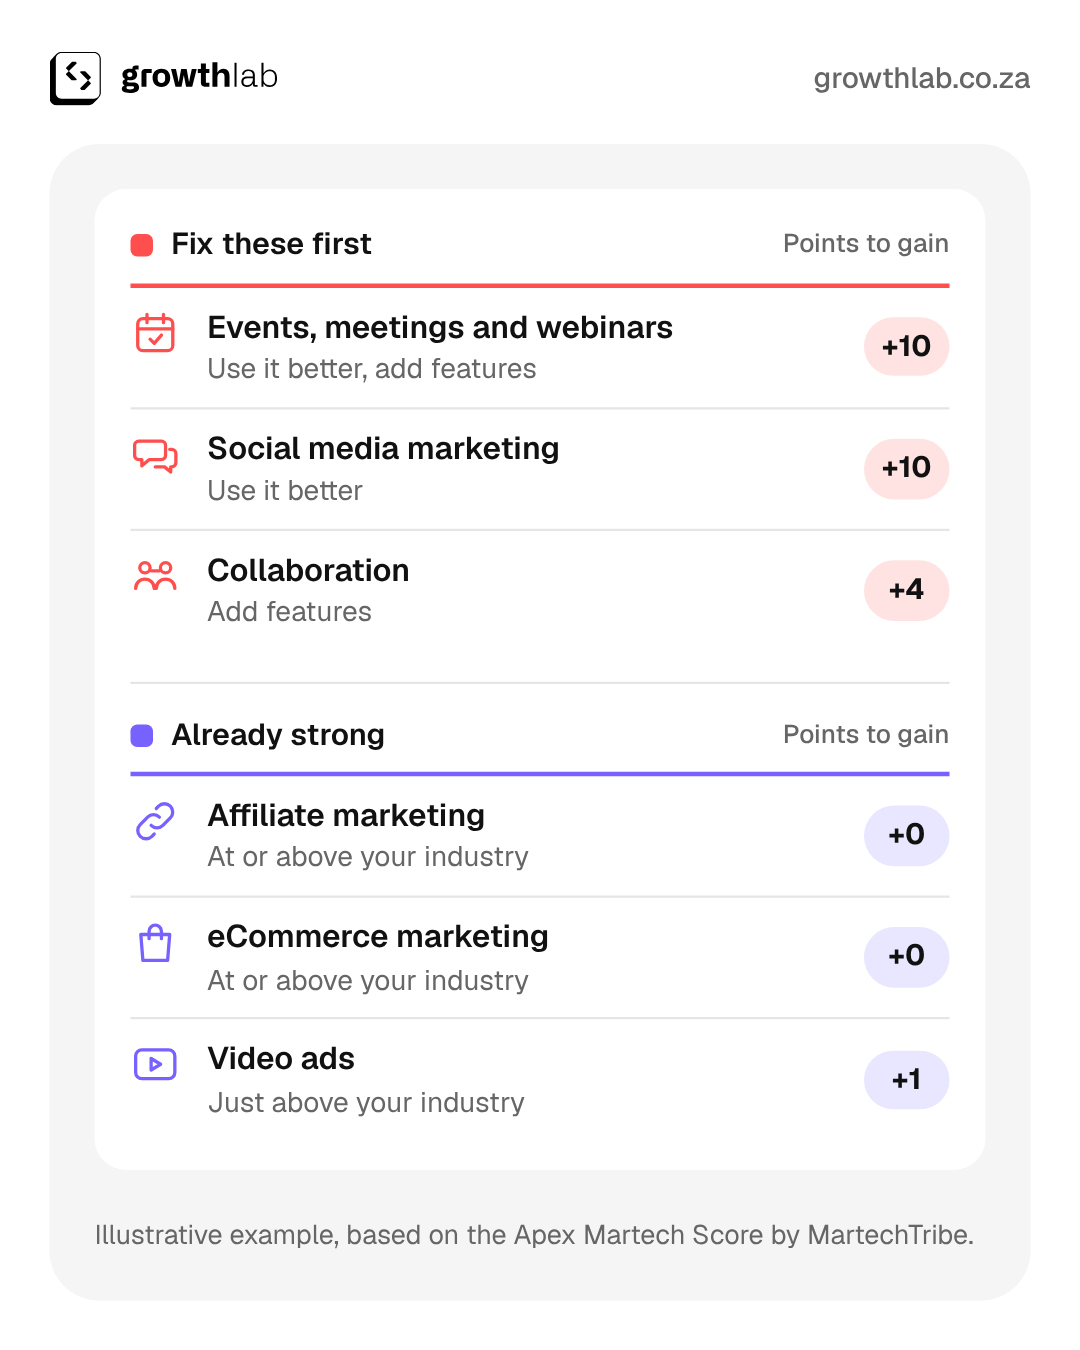
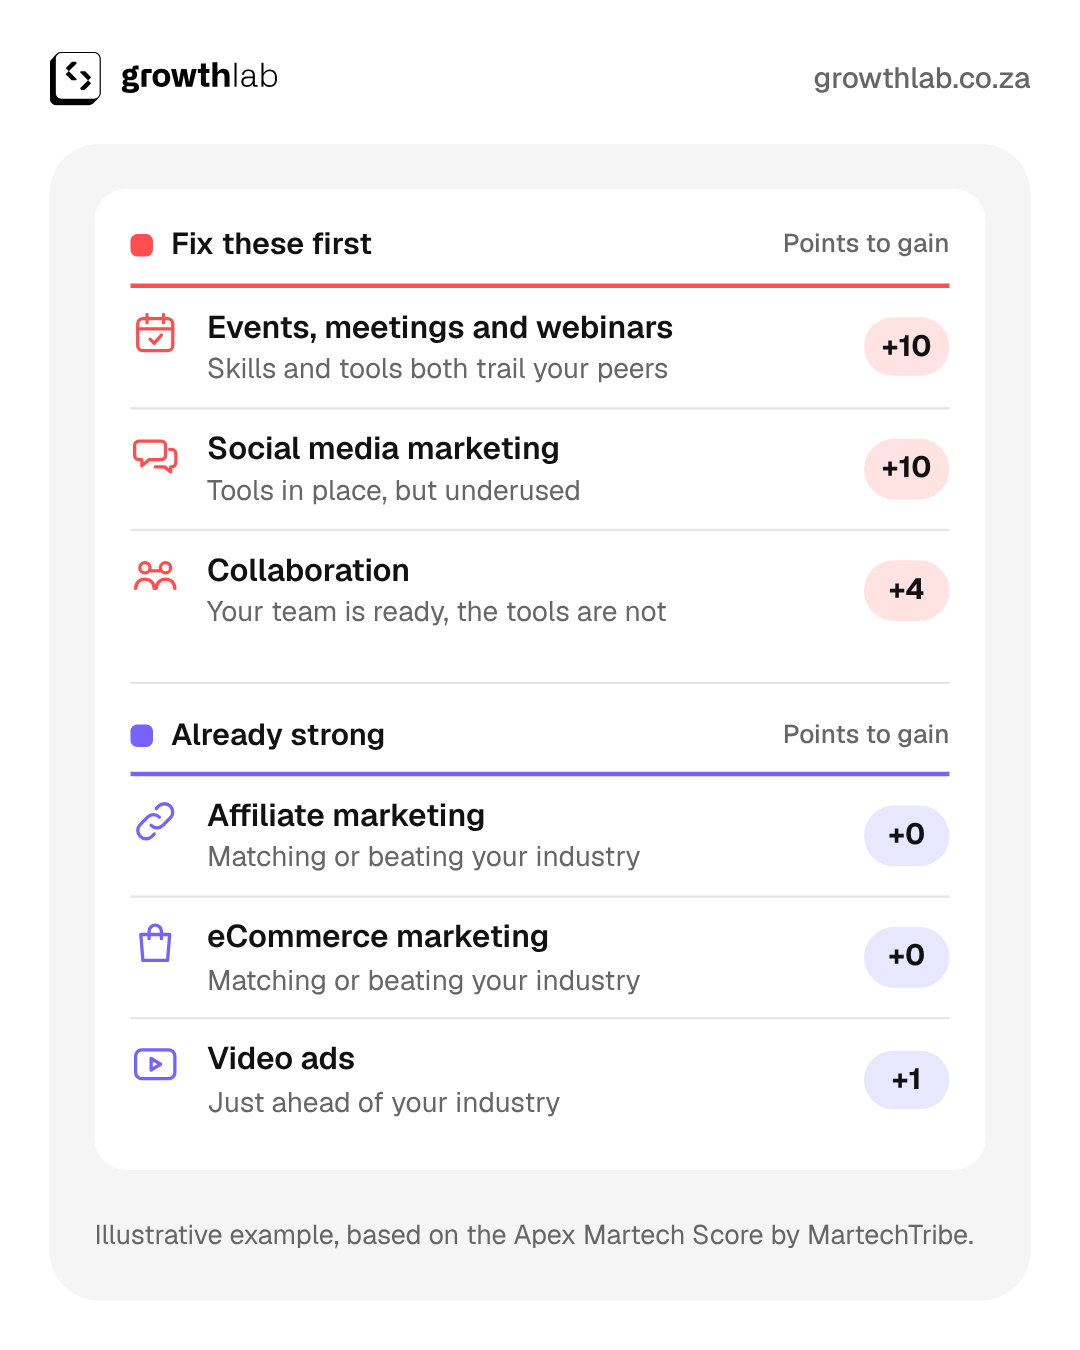
Growth Lab 2.12: score notes that read on their own
Replace "Use it better" and "Add features" with plain notes per area
(for example "Tools in place, but underused") and drop the key under the
lists, which readers missed. WhatsApp image 5 re-rendered; 445 checks
passing.

Claude-Session: https://claude.ai/code/session_01CPXKwt4JpQS2fb2UhF6eze

diff --git a/growth-lab/site/index.html b/growth-lab/site/index.html
@@ -281,21 +281,20 @@
                     <div class="score-col score-fix">
                       <h4><span>Fix these first</span><small>Points to gain</small></h4>
                       <ul role="list">
-                      <li><svg class="s-icon" aria-hidden="true" focusable="false"><use href="#i-calendar"/></svg><span class="s-name">Events, meetings and webinars</span><span class="s-how">Use it better, add features</span><span class="s-pts">+10</span></li>
-                      <li><svg class="s-icon" aria-hidden="true" focusable="false"><use href="#i-chat"/></svg><span class="s-name">Social media marketing</span><span class="s-how">Use it better</span><span class="s-pts">+10</span></li>
-                      <li><svg class="s-icon" aria-hidden="true" focusable="false"><use href="#i-team"/></svg><span class="s-name">Collaboration</span><span class="s-how">Add features</span><span class="s-pts">+4</span></li>
+                      <li><svg class="s-icon" aria-hidden="true" focusable="false"><use href="#i-calendar"/></svg><span class="s-name">Events, meetings and webinars</span><span class="s-how">Skills and tools both trail your peers</span><span class="s-pts">+10</span></li>
+                      <li><svg class="s-icon" aria-hidden="true" focusable="false"><use href="#i-chat"/></svg><span class="s-name">Social media marketing</span><span class="s-how">Tools in place, but underused</span><span class="s-pts">+10</span></li>
+                      <li><svg class="s-icon" aria-hidden="true" focusable="false"><use href="#i-team"/></svg><span class="s-name">Collaboration</span><span class="s-how">Your team is ready, the tools are not</span><span class="s-pts">+4</span></li>
                       </ul>
                     </div>
                     <div class="score-col score-strong">
                       <h4><span>Already strong</span><small>Points to gain</small></h4>
                       <ul role="list">
-                      <li><svg class="s-icon" aria-hidden="true" focusable="false"><use href="#i-link"/></svg><span class="s-name">Affiliate marketing</span><span class="s-how">At or above your industry</span><span class="s-pts">+0</span></li>
-                      <li><svg class="s-icon" aria-hidden="true" focusable="false"><use href="#i-bag"/></svg><span class="s-name">eCommerce marketing</span><span class="s-how">At or above your industry</span><span class="s-pts">+0</span></li>
-                      <li><svg class="s-icon" aria-hidden="true" focusable="false"><use href="#i-play"/></svg><span class="s-name">Video ads</span><span class="s-how">Just above your industry</span><span class="s-pts">+1</span></li>
+                      <li><svg class="s-icon" aria-hidden="true" focusable="false"><use href="#i-link"/></svg><span class="s-name">Affiliate marketing</span><span class="s-how">Matching or beating your industry</span><span class="s-pts">+0</span></li>
+                      <li><svg class="s-icon" aria-hidden="true" focusable="false"><use href="#i-bag"/></svg><span class="s-name">eCommerce marketing</span><span class="s-how">Matching or beating your industry</span><span class="s-pts">+0</span></li>
+                      <li><svg class="s-icon" aria-hidden="true" focusable="false"><use href="#i-play"/></svg><span class="s-name">Video ads</span><span class="s-how">Just ahead of your industry</span><span class="s-pts">+1</span></li>
                       </ul>
                     </div>
                   </div>
-                  <p class="score-key"><strong>Use it better:</strong> skills, process and adoption. <strong>Add features:</strong> what the technology can do.</p>
                 </div>
                 <p class="rc-credit">Illustrative example, based on the Apex Martech Score by MartechTribe.</p>
               </div>

diff --git a/growth-lab/site/assets/css/site.css b/growth-lab/site/assets/css/site.css
@@ -371,13 +371,11 @@ h1 {
 .score-col li:last-child { padding-bottom: 0; }
 .s-icon { grid-area: icon; width: 22px; height: 22px; color: var(--score-accent); align-self: start; margin-top: 1px; }
 .s-name { grid-area: name; font-size: 14px; line-height: 1.3; font-weight: var(--gl-weight-semibold); color: var(--gl-ink); }
-.s-how { grid-area: how; font-size: 12.5px; line-height: 1.35; color: var(--gl-ink-3); }
+.s-how { grid-area: how; font-size: 12.5px; line-height: 1.35; color: var(--gl-ink-3); text-wrap: pretty; }
 .s-pts {
   grid-area: pts; min-width: 38px; padding: 3px 8px; border-radius: var(--gl-radius-pill); text-align: center;
   font-size: 13px; font-weight: var(--gl-weight-bold); color: var(--gl-ink); background: color-mix(in srgb, var(--score-accent) 16%, var(--gl-white));
 }
-.score-key { margin-top: 24px; padding-top: 16px; border-top: 1px solid var(--gl-line); font-size: 12.5px; line-height: 1.5; color: var(--gl-ink-3); }
-.score-key strong { font-weight: var(--gl-weight-semibold); color: var(--gl-ink-2); }
 .rc-slide .map { margin-block: auto; padding-top: 16px; }
 
 /* The credit under the map is small print */

diff --git a/growth-lab/DESIGN_SYSTEM.md b/growth-lab/DESIGN_SYSTEM.md
@@ -218,7 +218,7 @@ Four white sections sit between the black four ways section and the rune band, i
 - **Research carousel (Neil, 16 October 2026).** On its own the MartechMap read as a field of dots to a CMO, so the section shows what the benchmark gives them: MartechTribe's Apex Martech Matrix retail example, rebuilt in Growth Lab colours, then the map. One example at a time on a light grey card (`--gl-panel`, panel radius) with white boxes inside, in this order:
   1. "Where you sit against your industry", then one line: "Each retailer is placed by its martech presence, what its technology can do, and its martech performance, how well its team uses it." The axes carry MartechTribe's own terms, "Martech presence" and "Martech performance", set horizontally in 14 px semibold ink with a purple arrow so they read at a glance: presence above the chart's left edge with an up arrow, performance under its right edge with a right arrow (Neil, 16 October 2026). The plain meanings in the line come from MartechTribe's quadrant descriptions (functionality, and skills and processes) and are to be confirmed with MartechTribe. The matrix is a white 5:4 plot split at MartechTribe's dividers, centred between the line above it and the credit below it. All 25 retailers are dots placed from `config/apex-retail-example.json` (positions measured from MartechTribe's chart, as percentages of the plot) in their quadrant colours: Powerhouse purple, Precision coral, Overbuilt amber with a hairline ring (amber never stands alone on white), Underbuilt ink 3. Retailers South Africans know are highlighted (Neil, 16 October 2026): Amazon (Powerhouse), IKEA and Sainsbury’s (Overbuilt), H&M (Precision) and Fossil (Underbuilt), as larger dots whose white name pills sit in clear space, each joined to its dot by a thin ink 3 leader; the label position is set in the data, the dot never moves. The Powerhouse quadrant, where the outperformers sit, is tinted with purple soft. Credit: "Retail example of 25 retailers. Apex Martech Matrix by MartechTribe and the CMO Council." The matrix is one image to assistive technology, with a text alternative naming the highlighted retailers and their positions.
   2. "What each position means": four white cards in the chart's layout (two by two, one column at 640 px and under), all the same size. Each has its icon on a 34 px tile in the quadrant colour (layers for Overbuilt, a bolt for Powerhouse, a target for Precision, a foundation with room to build for Underbuilt; white icons, ink on amber), the quadrant name, its meaning in a few words, one sentence on what it implies, then, below a hairline at the foot of the card, "In this example" and the highlighted retailers as grey name pills. No Apex Scores: only the four companies on MartechTribe's cards had them, and none is carried over to another company. Credit: "Positions from the same retail example."
-  3. "Your Apex Score, and what to fix first": three short points on what the score gives a CMO, then an illustrative score based on MartechTribe's example output (Neil, 16 October 2026). "You are at 63/100. You can reach 87/100." (one sentence per line on phones), a meter with purple to 63 and coral for the 24 points within reach ("+24 by fixing three areas"), then "Fix these first" (coral) and "Already strong" (purple) as a table the eye can separate: each list headed by its name and "Points to gain" over a 2 px rule in its colour, a hairline between areas (14 px above and below each), a hairline between the two lists (upright beside each other, level on phones), and a hairline above the key. The fixes add up to the gap: Events, meetings and webinars +10, Social media marketing +10, Collaboration +4 (MartechTribe's sample, 75 to 87 with +5, +5 and +2, moved down and scaled in proportion), so the credit reads "Illustrative example, based on the Apex Martech Score by MartechTribe." Never present it as MartechTribe's output or a client's result. Every area has a plain line icon from the sprite (calendar, chat, team, link, bag, play), never a technology vendor's logo, and a plain language note: "Use it better" (skills, process and adoption) or "Add features" (what the technology can do). The areas are MartechTribe's own example; never invent other areas or attach scores to a named company.
+  3. "Your Apex Score, and what to fix first": three short points on what the score gives a CMO, then an illustrative score based on MartechTribe's example output (Neil, 16 October 2026). "You are at 63/100. You can reach 87/100." (one sentence per line on phones), a meter with purple to 63 and coral for the 24 points within reach ("+24 by fixing three areas"), then "Fix these first" (coral) and "Already strong" (purple) as a table the eye can separate: each list headed by its name and "Points to gain" over a 2 px rule in its colour, a hairline between areas (14 px above and below each), and a hairline between the two lists (upright beside each other, level on phones). The fixes add up to the gap: Events, meetings and webinars +10, Social media marketing +10, Collaboration +4 (MartechTribe's sample, 75 to 87 with +5, +5 and +2, moved down and scaled in proportion), so the credit reads "Illustrative example, based on the Apex Martech Score by MartechTribe." Never present it as MartechTribe's output or a client's result. Every area has a plain line icon from the sprite (calendar, chat, team, link, bag, play), never a technology vendor's logo, and a note that reads on its own, with no key to look up (Neil, 16 October 2026): "Skills and tools both trail your peers" (Events, meetings and webinars: maturity and features), "Tools in place, but underused" (Social media marketing: maturity), "Your team is ready, the tools are not" (Collaboration: features), "Matching or beating your industry" (Affiliate and eCommerce marketing) and "Just ahead of your industry" (Video ads). The areas are MartechTribe's own example; never invent other areas or attach scores to a named company.
   4. "The whole market your stack is chosen from", with the line "Every solution in the market, analysed independently, so you see exactly how your stack performs." (Neil, 16 October 2026), then the MartechMap (below), centred in its card.
 - Every example card is the same size above 640 px, so nothing jumps as the visitor moves through them: the credit sits at the foot of each card. On a phone the examples differ too much in height, so the card fits the example in view. On desktop the research copy starts level with the top of the card (Neil, 16 October 2026).
 - The carousel never moves on its own, so it needs no pause control. It is a scroll snap track, so it swipes on touch screens and scrolls with a trackpad without any script; `site.js` adds the controls, keeps them in step with the track, lets the arrow keys move between examples, puts the example in view back in place when the window changes width, and fits the card on phones. Controls (round 4, after current product galleries, in brand purple at Neil's request): a pagination pill whose dot stretches from 8 to 28 px for the example in view (purple, the others purple soft), and two filled round paddles, 44 px, purple with a white chevron, no border, a deeper purple on hover, purple soft when there is nothing further that way. Each example is a labelled group ("1 of 4: Where you sit") inside a region labelled "An example of what the benchmark shows".
@@ -360,6 +360,7 @@ Four white sections sit between the black four ways section and the rune band, i
 
 ## Change log
 
+- **2.12, 16 October 2026, score notes (Neil).** "Use it better" and "Add features" read as flat on their own, so each area's note now says what is happening in plain words (for example "Tools in place, but underused"), and the key under the lists is gone.
 - **2.12, 16 October 2026, release (Neil).** Released to growthlab.co.za. The approved privacy notice and website terms and the LinkedIn footer icon, published on the live site on 14 October 2026, are now part of the source, so the release keeps them.
 - **2.12, 16 October 2026, carousel round 5 and leading solutions (Neil).** The carousel controls are brand purple. The matrix sits centred between its line and its credit, and its axis labels are larger, darker and horizontal with purple arrows. The score is an illustration at 63 to 87 (+24 from three fixes of +10, +10 and +4), credited as based on MartechTribe's Apex Martech Score. The score lists read as a table, with a coloured rule under each heading and hairlines between areas and between the lists. The map's line now says what independent analysis gives you. New section after "Experience that moves you forward": "We work across the leading solutions" with Salesforce, Adobe, Microsoft, Google, HubSpot, Databricks and Snowflake logos in ink (MoEngage to follow), with room before the rune. WhatsApp images re-rendered.
 - **2.12, 16 October 2026, research carousel round 4 (Neil).** Retailers South Africans know are highlighted instead of Amazon's companions from MartechTribe's cards: Amazon, IKEA, Sainsbury’s, H&M and Fossil, at their measured positions, with name labels in clear space joined to the dots by thin leaders. The axes read "Martech presence" and "Martech performance", MartechTribe's terms, with their plain meanings in the line above. The position cards gain icons, the retailers in each position, and one size for all four; the Apex Scores leave them, since only the original four companies had scores. Every example card shares one size above 640 px, and the research copy now starts level with the card. Modern controls: soft filled paddles and a stretching pagination pill. More room in the score lists. The carousel keeps its place when the window changes width. WhatsApp images re-rendered.

diff --git a/growth-lab/SOURCES.md b/growth-lab/SOURCES.md
@@ -78,7 +78,7 @@ Back on the page since 16 October 2026 (version 2.12, Neil), rebuilt in Growth L
 - **Axes.** The page uses MartechTribe's terms on the axes: "Martech presence" (up) and "Martech performance" (right), as on the chart (Neil, 16 October 2026). The line above the chart explains them as "what its technology can do" and "how well its team uses it". That reading comes from MartechTribe's own quadrant descriptions on the cards Neil supplied (Overbuilt: better skills and processes would unlock more; Underbuilt: broader functionality, with the skills and processes to use it, would close the gap) and from the score's "maturity" and "features"; MartechTribe's public material checked on 16 October 2026 (CMO Council programme page and launch coverage) describes the matrix but not these axis definitions, so **confirm the wording with MartechTribe.** Quadrant names are MartechTribe's: Powerhouse, Overbuilt, Precision, Underbuilt.
 - **Highlighted retailers.** Since 16 October 2026 the chart highlights retailers South Africans know, at Neil's request: Amazon (Powerhouse), IKEA and Sainsbury’s (Overbuilt), H&M (Precision) and Fossil (Underbuilt). Each is a real dot from MartechTribe's chart in its own quadrant; only the position of its name label is chosen (`callout` in the data file). "IKEA" follows the company's own styling (the chart's legend reads "Ikea").
 - **Earlier examples and scores.** The cards Neil supplied gave Apex Scores for four companies: Amazon 75/100, Zalando 50/100, Chalhoub Group 51/100 and Bellavie 29/100 (kept in the data file as `_source_cards`). The cards call Chalhoub Group Overbuilt and Zalando Precision, but the chart places them the other way round; the page follows the chart. Neither is highlighted now, and no score is shown on the position cards, because the newly highlighted retailers have no published score and none is carried over or invented. The one line meanings ("More technology than the team can use", "Broad technology, used well", "Behind on both", "Fewer tools, used very well") and each card's sentence are Growth Lab's plain language summaries of MartechTribe's cards.
-- **Example score.** An illustration since 16 October 2026 (Neil): 63 today and 87 within reach, with Events, meetings and webinars +10 (maturity and features, shown as "Use it better, add features"), Social media marketing +10 (maturity, "Use it better") and Collaboration +4 (features, "Add features"), adding up to the 24 point gap. Already strong: Affiliate marketing +0 and eCommerce marketing +0 (at or above the industry), Video ads +1 (just above). It is MartechTribe's sample output (75 to 87, fixes +5, +5 and +2, kept in the data file as `scorecard._source`) moved down and scaled in proportion, so the page credits it as "Illustrative example, based on the Apex Martech Score by MartechTribe." and never as MartechTribe's output or a client's result. "Use it better" stands for MartechTribe's maturity (skills, process and adoption) and "Add features" for its functionality. The icons are Growth Lab's own line icons; no vendor logos.
+- **Example score.** An illustration since 16 October 2026 (Neil): 63 today and 87 within reach, with Events, meetings and webinars +10 (maturity and features, shown as "Skills and tools both trail your peers"), Social media marketing +10 (maturity, "Tools in place, but underused") and Collaboration +4 (features, "Your team is ready, the tools are not"), adding up to the 24 point gap. Already strong: Affiliate marketing +0 and eCommerce marketing +0 (at or above the industry, shown as "Matching or beating your industry"), Video ads +1 (just above, "Just ahead of your industry"). It is MartechTribe's sample output (75 to 87, fixes +5, +5 and +2, kept in the data file as `scorecard._source`) moved down and scaled in proportion, so the page credits it as "Illustrative example, based on the Apex Martech Score by MartechTribe." and never as MartechTribe's output or a client's result. Maturity is MartechTribe's measure of skills, process and adoption (the team); features is its measure of functionality (the tools). The icons are Growth Lab's own line icons; no vendor logos.
 - **Credit lines on the page.** "Retail example of 25 retailers. Apex Martech Matrix by MartechTribe and the CMO Council." "Positions from the same retail example." "Illustrative example, based on the Apex Martech Score by MartechTribe."
 - **Permission.** MartechTribe and the CMO Council must agree to the rebuilt example on Growth Lab's site and in WhatsApp images before release (`PRELAUNCH.md`). It is a retail industry example, never a Growth Lab client result, and is never presented as one.
 
